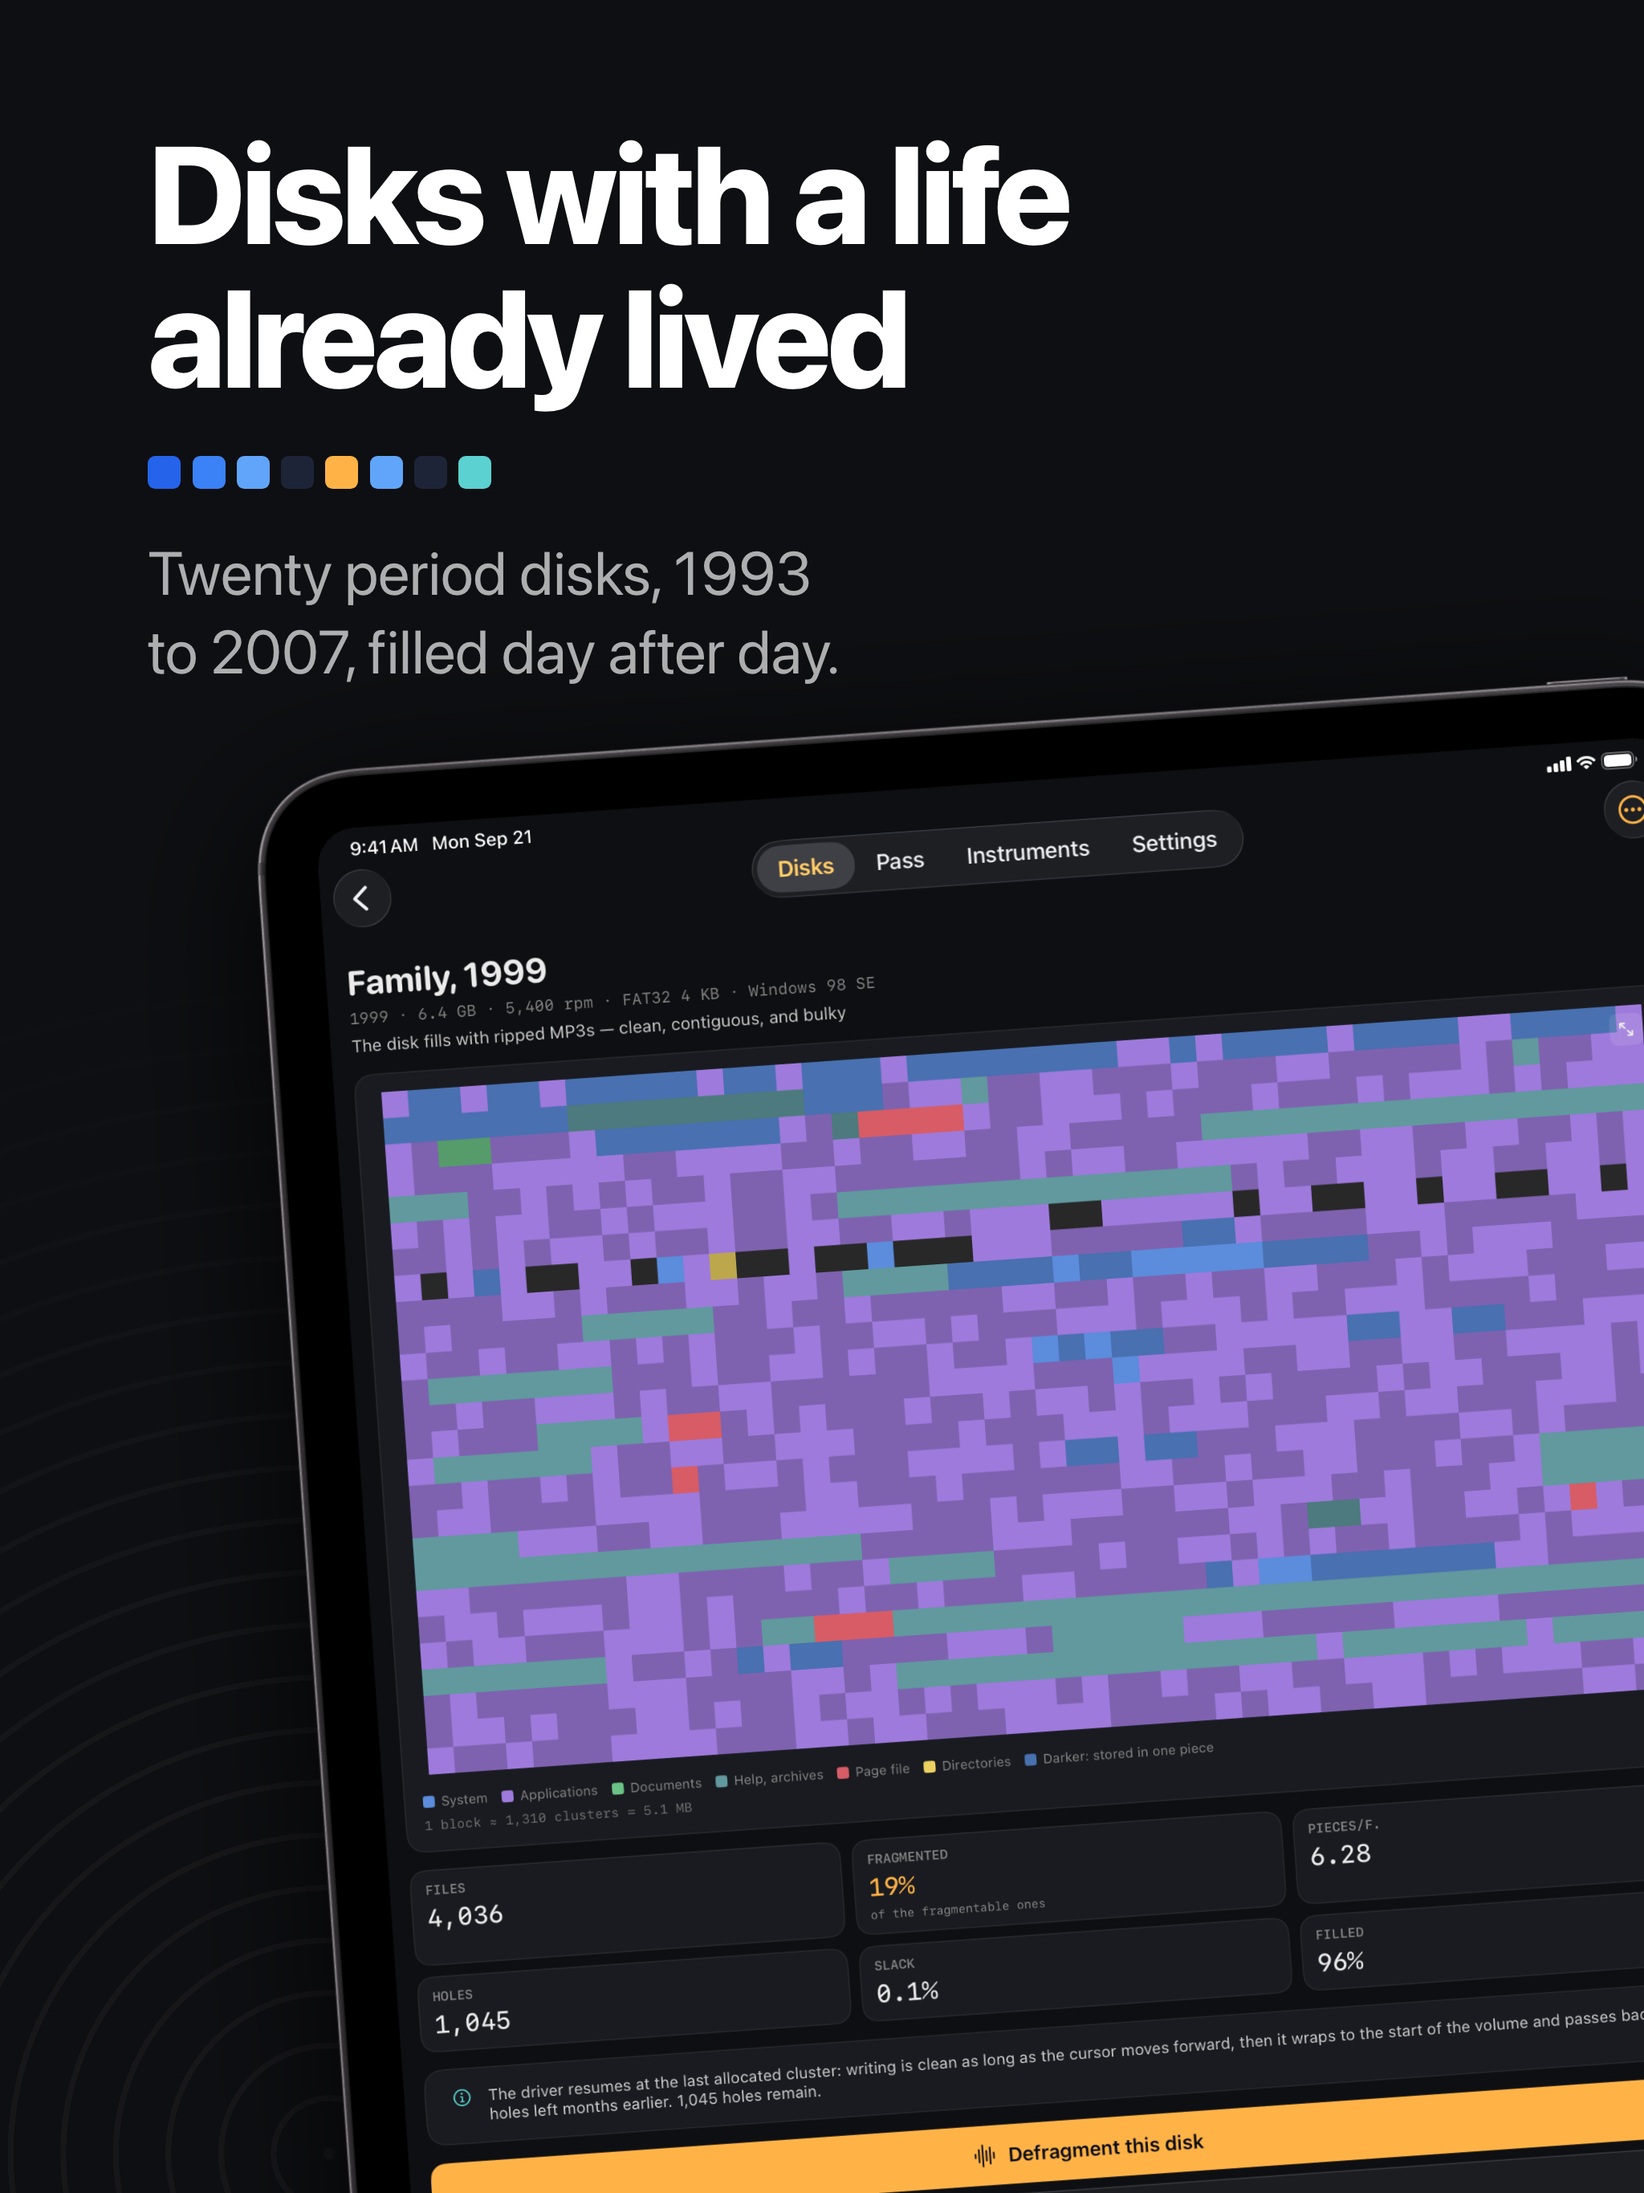
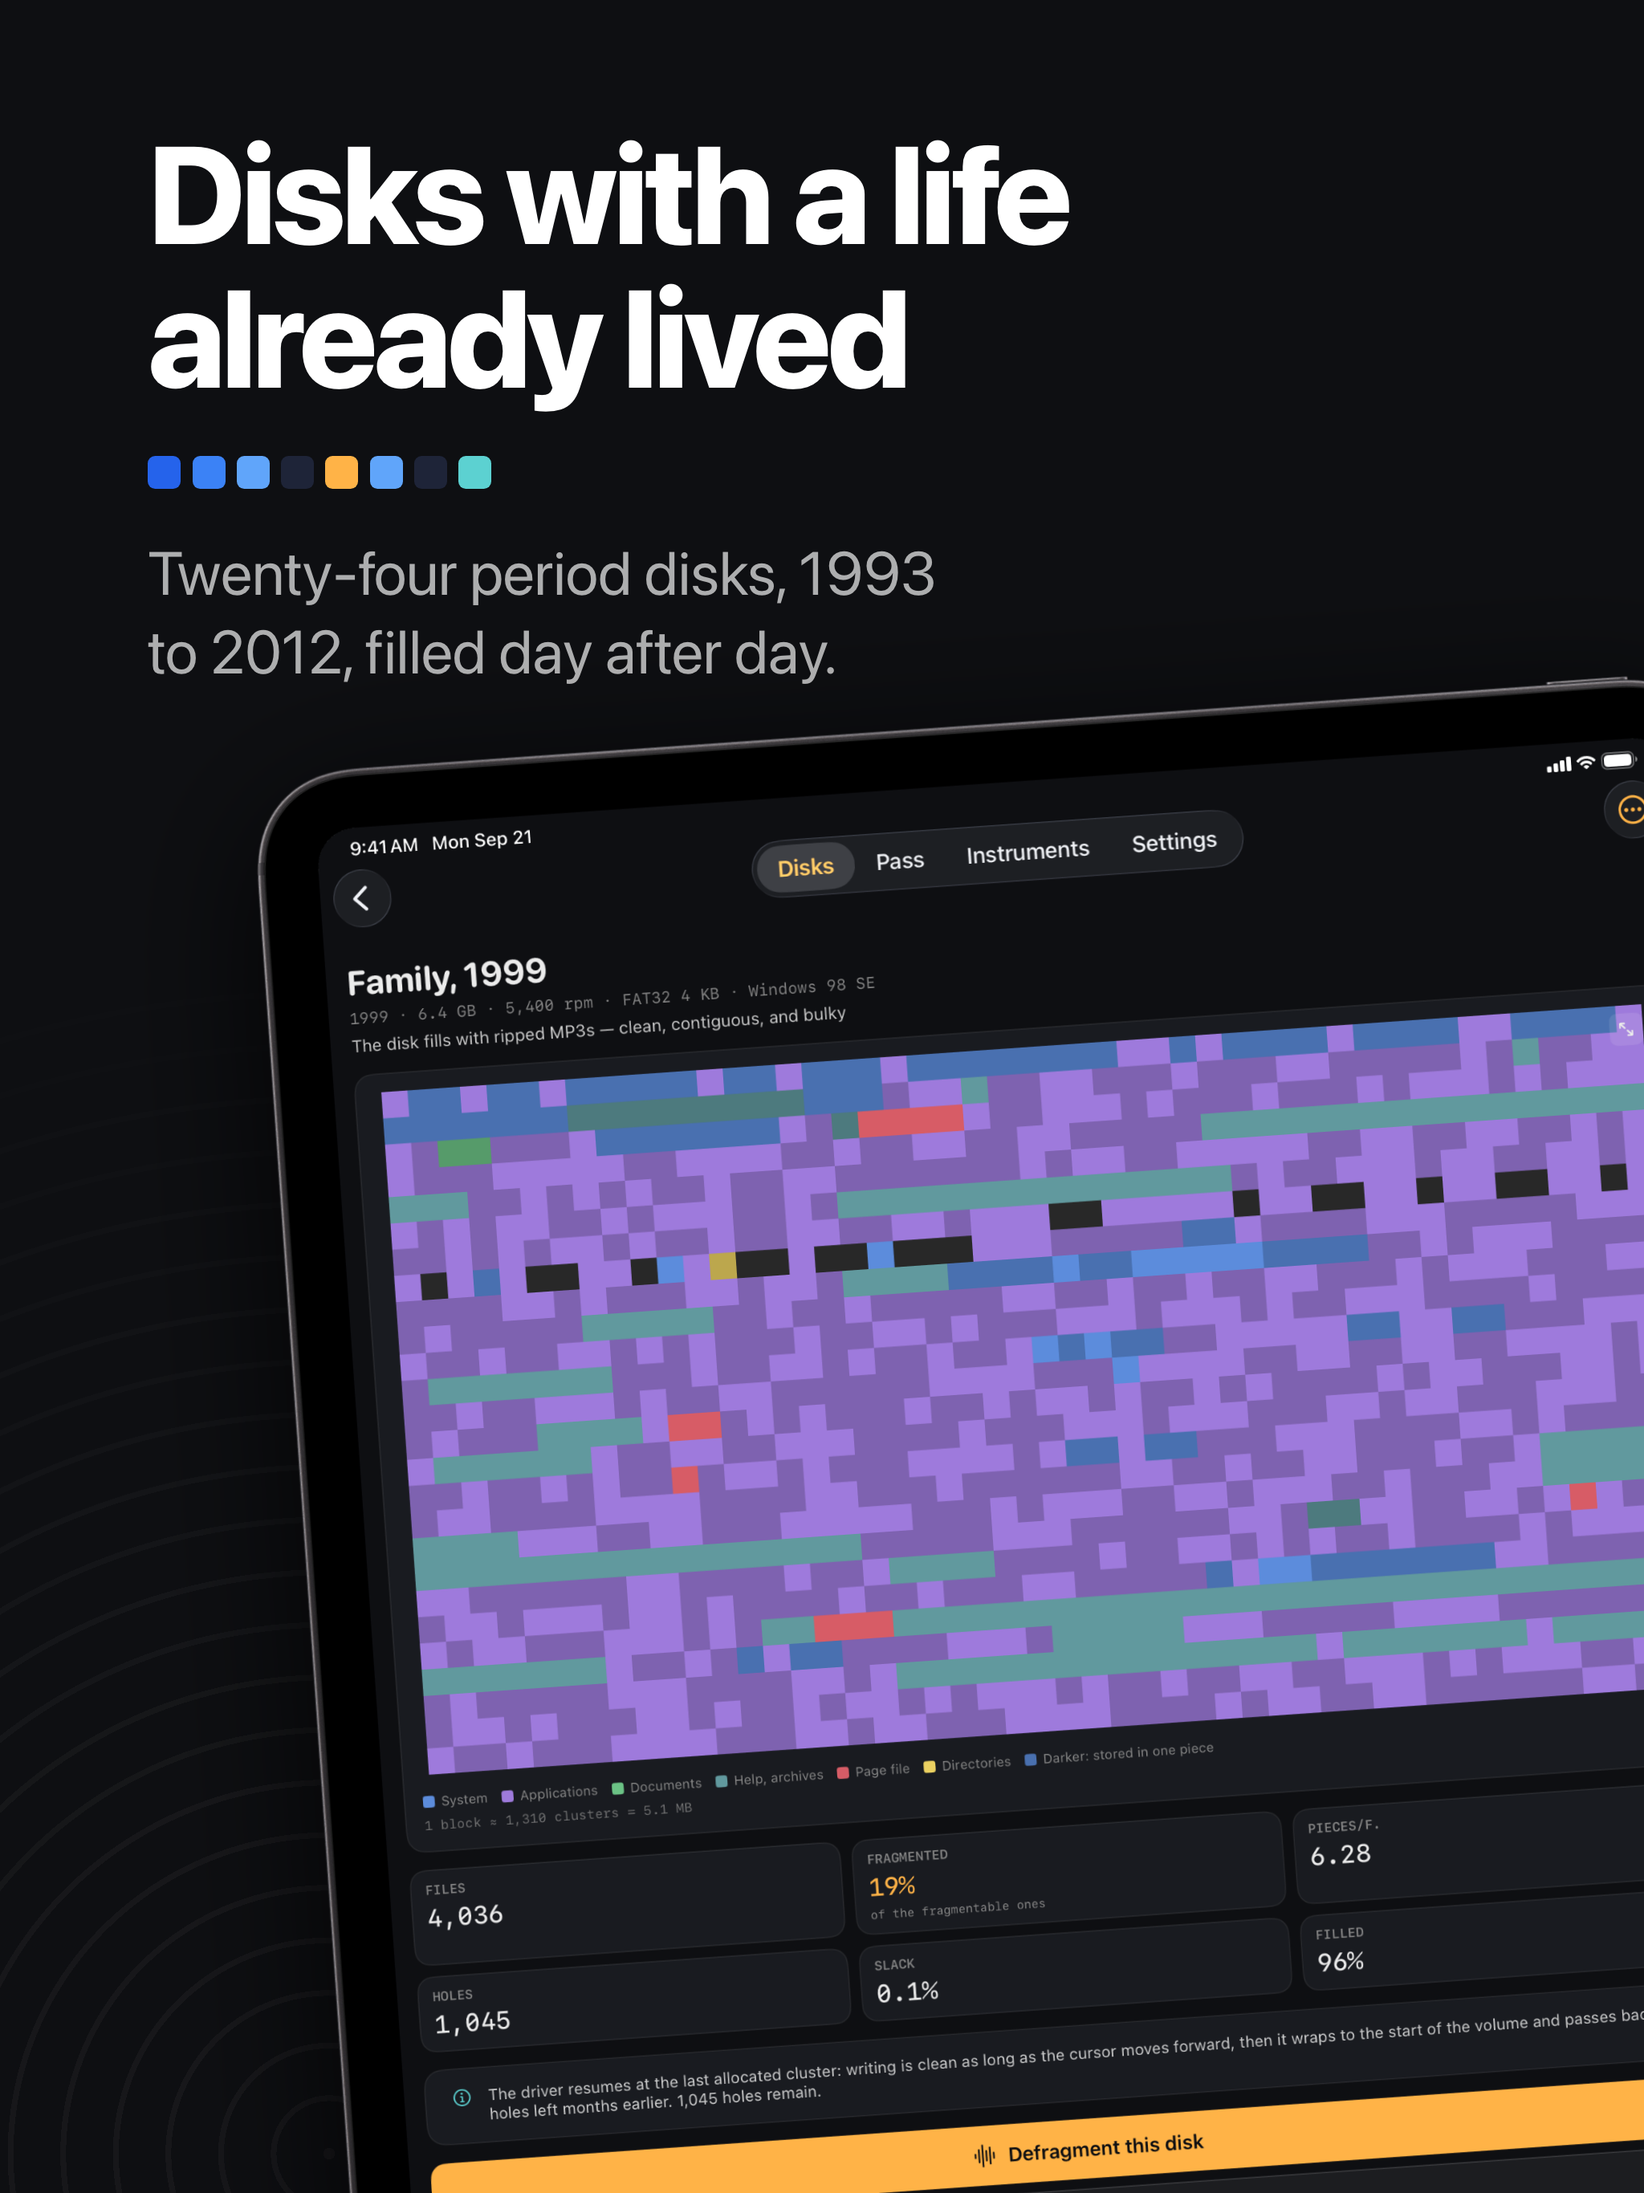
Suivre 2012 sur la fiche et le site : vingt-quatre disques, jusqu'à Windows 7
- carte 05 des captures : « Twenty-four period disks, 1993 to 2012 »,
  en et fr, recadrée par Koubou ; la capture brute de « Famille, 1999 »
  ne change pas. Les quatre jeux renvoyés sur la version 1.0.0 par
  --replace, pour garder l'ordre ;
- site : vingt-quatre disques en six époques, du 170 Mo à 3 600 tr/min
  au 1 To à 7 200 et au VelociRaptor à 10 000, démarrages jusqu'à
  Windows 7 ; how-it-works : huit disques de référence avec le 7200.14,
  le 10 000 tr/min et la rampe des disques de 2012 ; confidentialité :
  le nombre de disques, sans changement de date d'effet.

Changed region(s): [[0.1562, 0.2489, 0.5625, 0.3111]]

diff --git a/docs/how-it-works/index.html b/docs/how-it-works/index.html
@@ -120,7 +120,7 @@
           <p>
             A capacity alone does not describe a disk: the same gigabyte is a
             whole drive in 1996 and a corner of a platter, read five times
-            faster, in 2003. So the model interpolates in time between seven
+            faster, in 2003. So the model interpolates in time between eight
             drives that were really sold, whose datasheets it carries — the
             number of tracks per surface, which sets the arm’s stroke and so
             the whole acoustics of a seek, and the capacity of a surface, which
@@ -128,7 +128,7 @@
           </p>
           <div class="scroll-x">
             <table class="spec">
-              <caption>The seven reference drives</caption>
+              <caption>The eight reference drives</caption>
               <thead>
                 <tr><th scope="col">Drive</th><th scope="col">Year</th><th scope="col">Buffer</th><th scope="col">Bearing</th></tr>
               </thead>
@@ -140,14 +140,24 @@
                 <tr><th scope="row">Seagate Barracuda 7200.7</th><td class="num">2003</td><td class="num">2 MB</td><td>fluid</td></tr>
                 <tr><th scope="row">Seagate Barracuda 7200.10</th><td class="num">2006</td><td class="num">16 MB</td><td>fluid</td></tr>
                 <tr><th scope="row">Seagate Barracuda 7200.11</th><td class="num">2008</td><td class="num">32 MB</td><td>fluid</td></tr>
+                <tr><th scope="row">Seagate Barracuda 7200.14</th><td class="num">2012</td><td class="num">64 MB</td><td>fluid</td></tr>
               </tbody>
             </table>
           </div>
+          <p>
+            A 10,000 rpm drive is not a 7,200 rpm one spun faster. The
+            VelociRaptor put 2.5-inch platters in a 3.5-inch heatsink, so that
+            the air at the edge moves no faster than on a desktop drive. From
+            2008 on, a 10,000 rpm disk takes its mechanics — smaller platters,
+            fewer tracks per surface, its track-to-track seek, its ramp — at the
+            density of its year, and in 2012 lands exactly on the datasheets of
+            the WD1000DHTZ and WD5000HHTZ.
+          </p>
           <ul>
             <li><b>The seek</b> follows the two-regime law of Ruemmler and Wilkes (IEEE Computer, 1994) — a square root of the distance for short seeks, a straight line beyond — split into speed-up, coast, slow-down and settle. A seek before a write settles longer, as the datasheets publish.</li>
             <li><b>Rotation and transfer</b> are simulated sector by sector, with track steps and head switches at the end of a cylinder.</li>
             <li><b>The buffer</b> reads ahead after a read, and the write cache acknowledges a write at once and lays it down later, in elevator order — so the disk works while the computer computes, as a real one did.</li>
-            <li><b>Power-on</b> is in three stages: the motor spins up, the heads unstick from the platter, and the drive seeks its track 0. At power-off the platter spins down and the heads land.</li>
+            <li><b>Power-on</b> is in three stages: the motor spins up, the heads unstick from the platter, and the drive seeks its track 0. At power-off the platter spins down and the heads land. Drives of 2012 park their heads on a ramp instead: they never touch the platter, so they neither unstick nor land.</li>
             <li><b>Drives from before 1997 recalibrate</b> two minutes after they are ready, then every four minutes: a second of crackle, the signature sound of that generation.</li>
           </ul>
         </div>

diff --git a/docs/index.html b/docs/index.html
@@ -192,22 +192,23 @@
       <div class="sheet__grid">
         <h2 class="sheet__label">Period disks</h2>
         <div class="sheet__body">
-          <h2>Twenty disks with their life already lived.</h2>
+          <h2>Twenty-four disks with their life already lived.</h2>
           <p>
             The <span class="ui">Disks</span> tab opens on two demos ready to
             play — a Windows 98 boot and a defragmentation — each one
-            <span class="ui">Start</span> away. Below them, a gallery of twenty
-            period disks across five eras, 1993, 1996, 1999, 2003 and 2007: an
+            <span class="ui">Start</span> away. Below them, a gallery of twenty-four
+            period disks across six eras, 1993, 1996, 1999, 2003, 2007 and 2012: an
             office worker, a family, a developer, a gamer, and a 1993 tinkerer
             unpacking BBS archives from floppies. From a 170 MB FAT16 at
-            3,600 rpm to a 320 GB NTFS at 7,200, each is filled the way a
-            person actually filled it — install after install, day after day —
+            3,600 rpm to a 1 TB NTFS at 7,200 and a VelociRaptor at 10,000,
+            each is filled the way a person actually filled it — install after
+            install, day after day —
             through the allocator of its own file system. Nobody set its
             fragmentation: it is what that history left behind.
           </p>
           <p>A disk’s page offers four ways to hear it:</p>
           <ul>
-            <li><span class="ui">Boot this OS</span> — from MS-DOS 6.22 and Windows 3.1 to Vista, reading the files where that disk keeps them.</li>
+            <li><span class="ui">Boot this OS</span> — from MS-DOS 6.22 and Windows 3.1 to Windows 7, reading the files where that disk keeps them.</li>
             <li><span class="ui">Install this disk</span> — its first day, replayed from the installation media, every file written where the allocator put it.</li>
             <li><span class="ui">Relive this disk</span> — its whole history scrolls past at a day, a week or a month per second, and the days worth hearing are named along the way: pick <span class="ui">Listen to day N</span> to hear one in real time.</li>
             <li><span class="ui">Defragment this disk</span> — with the tool of your choice.</li>

diff --git a/docs/privacy/index.html b/docs/privacy/index.html
@@ -87,7 +87,7 @@
             container; the sound settings and the welcome flag are kept in the
             app’s preferences (<code>UserDefaults</code>). None of it describes
             you: it describes simulated disks and how you like them to sound.
-            The twenty period disks are generated on the device from recipes
+            The twenty-four period disks are generated on the device from recipes
             that ship with the app.
           </p>
         </div>
